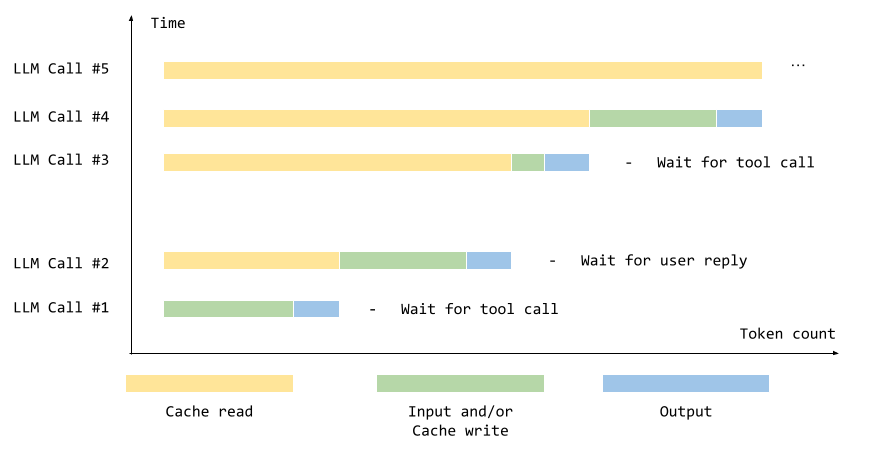
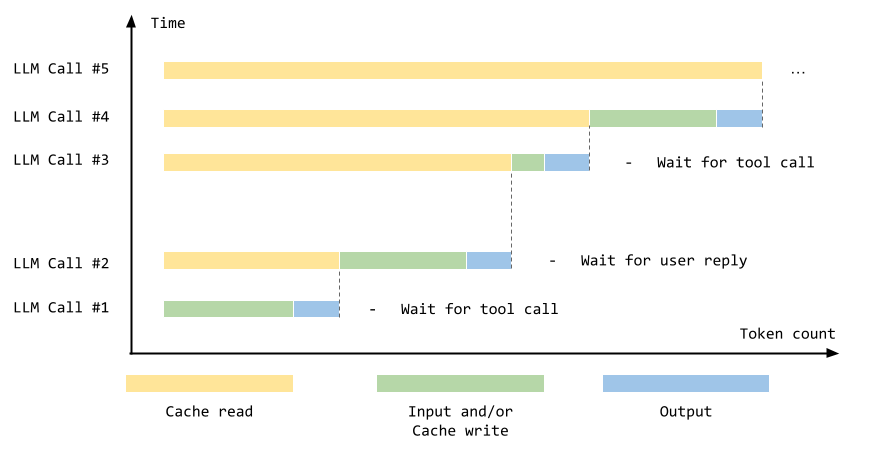
stash

Changed region(s): [[0.1527, 0.7642, 0.9468, 0.7948], [0.1222, 0.0306, 0.1527, 0.0611]]

diff --git a/_posts/2025-11-15-token-cost.md b/_posts/2025-11-15-token-cost.md
@@ -17,7 +17,7 @@ LLM workload will not trivially and proportionally scale. The cost of today’s 
   <img src="/images/token-cost/workload_future_and_now.png" alt="">
 </figure>
 
-In 2024, I saw some calculation that even if the 7 billion people around the world all talk with a chatbot for 30 minute a day, the corresponding workload could be easily served by 100k-ish GPUs.
+In 2024, I saw an estimation that even if all the 7 billion people around the world talk to a chatbot for 30 minute every day, the corresponding traffic could be easily served by 100k-ish GPUs.
 In 2025, we are seeing all types of agents, especially coding agents, becoming a major source of token consumption. Compared with chatbot, agents is not simply an application that consumes more tokens. It presents a much different workload pattern.
 
 
@@ -32,9 +32,10 @@ From system perspective, cached token is just KV cache. Longer lasting time of K
 
 <figure>
   <img src="/images/token-cost/multi_round_cache_token_explain.png" alt="">
+  <figcaption>An agentic task consists multiple LLM calls separated by tool calling and user interactions. Cached tokens grows linearly with LLM calls while total cache reads grows quadratically.</figcaption>
 </figure>
 
-Over the next 3 years, we may witness the evolution of single-task agentic LLM to forever-running agents, which will pose a greater stress on the current systems. Anthropic is the first to emphasize the long running capability of their models, and the first to support [1-hr cache lifespan](https://www.anthropic.com/news/claude-4) in their API.
+Over the next 3 years, we may witness the evolution of single-task agentic LLM to forever-running agents, which will pose a greater stress on the current systems. Anthropic is among the first to emphasize the long running capability of their models, and the first to support [1-hr cache lifespan](https://www.anthropic.com/news/claude-4) in their API.
 
 **Trend 2: wider execution paths**, represented by [asynchronous tool calling](https://arxiv.org/pdf/2412.07017), [parallel thinking](https://blog.google/products/gemini/gemini-2-5-deep-think/), specialized model calling, or [asynchronously calling itself](https://arxiv.org/pdf/2504.15466v1).
 Allowing LLM to simultaneously perform multiple tasks and scale out its thinking power could greatly enhance its capability, meanwhile reduce the time to results.
@@ -43,7 +44,7 @@ This will make the token-based pricing model more difficult to sustain in the lo
 Agent providers like [Manus](https://manus.im/pricing) has already realized this issue and they are not priced by tokens, but "credits" which considers the overall compute cost as a whole.
 
 
-**Speculation: training being part of inference**. Inference is already part of training in Reinforcement Learning, and it is not a fundamental issue from system perspective to incorporate some sort of training in inference serving. After all, intelligence requires adaptation in environments, and the current way of adaptation is only context manipulation. There are already efforts to solve fundamental training problems like Nested Learning, and also approaches to alleviate system cost like LoRA.
+**Speculation: training being a part of serving**. Inference is already part of training in Reinforcement Learning, and it is not a fundamental issue from system perspective to incorporate some sort of training in inference serving. After all, intelligence requires adaptation in environments, and the current way of adaptation is only context manipulation. There are already efforts to solve fundamental issues like forgetting in [Nested Learning](https://research.google/blog/introducing-nested-learning-a-new-ml-paradigm-for-continual-learning/), and also approaches to alleviate system cost like [LoRA](https://thinkingmachines.ai/blog/lora/).
 
 
 ## Forecast the next 1000x cost saving
@@ -69,17 +70,19 @@ Future agentic applications would enable more such opportunities like cross-node
 Some may wonder where compiler and system software sit on this table. They are parts of microarchitecture and heterogeneous system. Newer architecture will be more difficult to optimize with current compiler stack, and require great innovations to maintain the current utilization level. Similarly, larger scales of heterogeneous hardware system requires significant work from software to orchestrate.
 
 **Model & algorithm** have historically been the greatest factor of cost reduction since the CNN era. 
-Better data quality and smart ways to train models will keep elevating model intelligence thus saving costs. We have seen recent advances like on-policy distillation, training to reduce reasoning lengths further.
-Efficient model architecture, especially the use of sparse/linear attentions, will drive the cost down a little bit for today's applications and a lot for future usecases.
-As for quantization, many model providers now serve models in 8-bit formats, while some labs with inferior system capability still stick with bf16. 4-bit formats, represented by NVFP4 and MXFP4 (see my previous blog), will expected to be widely used in 3 years.
+
+ - Better data quality and smart ways to train models will keep elevating model intelligence thus saving costs. We have seen recent advances like on-policy distillation, training to reduce reasoning lengths that grealy improves
+ - Efficient model architecture, especially the use of sparse/linear attentions, will drive the cost down a little bit for today's applications and a lot for future usecases.
+ - Quantization-wise, many model providers now serve models in 8-bit formats, while some labs with inferior system capability still stick with bf16. 4-bit formats, represented by NVFP4 and MXFP4 (see [my previous quantization blog](/quantization/)), will expected to be widely used in 3 years.
 Overall, I will comfortably predict at least 10x from model and algorithm.
 
 **Agent and its scaffold** is an emerging field largely driven by application needs. It determines the interaction between LLM and the environment, and also the LLM with other LLMs including itself. 
-While researchers are training models to better manipulate the interfaces of the real world, developers also realize not all interfaces are effective and efficient for LLM to operate on. [Anthropic's recent blog](https://www.anthropic.com/engineering/code-execution-with-mcp) suggests changing the interface could reduce token usage by 98.7%.
-Managing model's short-term memory (context window) and persisting memory is also an important direction to work on.
+- Interface is critical. While researchers are training models to better manipulate the interfaces of the real world, developers also realize not all interfaces are effective and efficient for LLM to operate on. [Anthropic's recent blog](https://www.anthropic.com/engineering/code-execution-with-mcp) suggests changing the interface could reduce token usage by 98.7%.
+- Memory management, specifically, managing model's short-term memory (context window) and persisting memory is also an important direction to work on.
+
 There are a lot of opportunities in this new field and I have no doubt it could easily bring another 10x cost saving.
 
-With the aforementioned optimizations, we arrive at an estimation of 2000x efficiency improvement. On the other hand, the cost of a HBM module and latest-node chip area will likely increase by 1.5-2x, depending on the manufacture cost and rising demand.
+**Summary** - with the aforementioned optimizations, we arrive at an estimation of 2000x efficiency improvement. On the other hand, the cost of a HBM module and latest-node chip area will likely increase by 1.5-2x, depending on the manufacture cost and rising demand.
 
 
 ## Final words